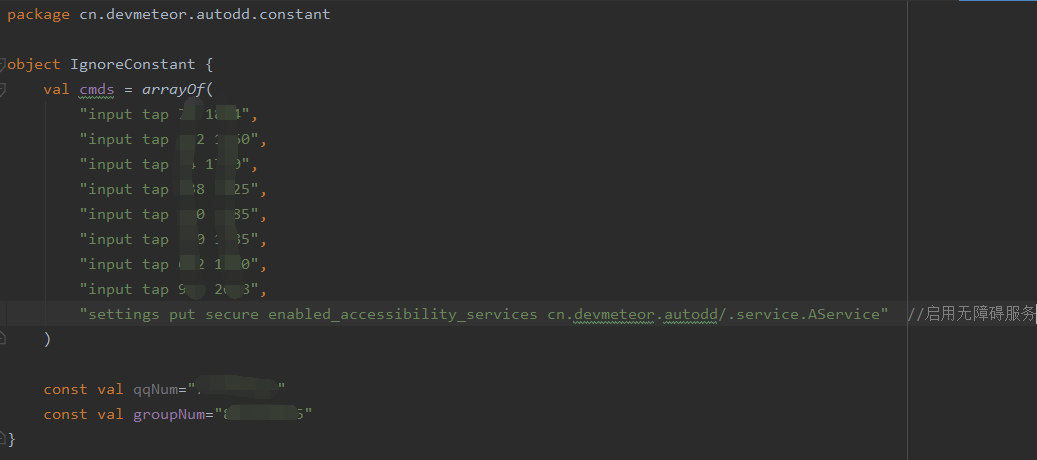
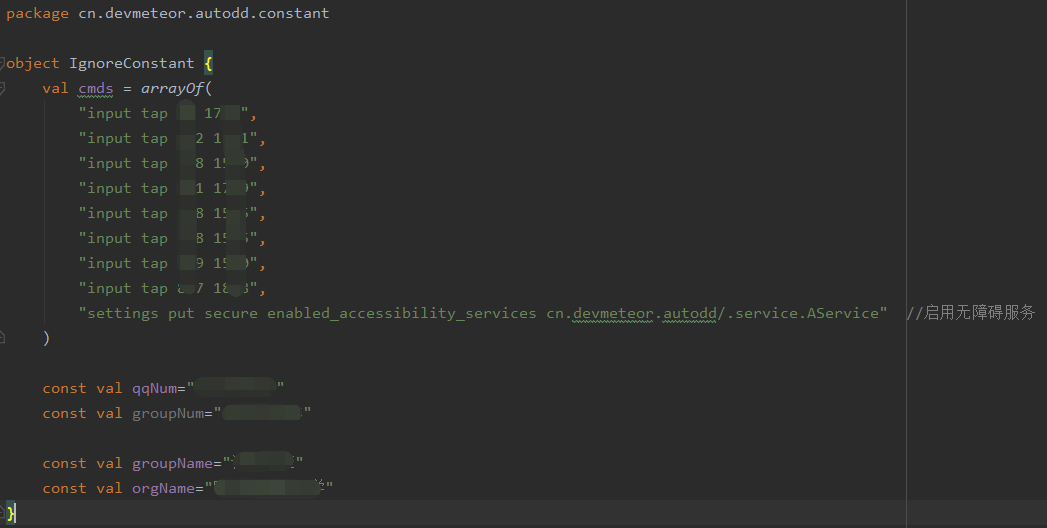
新增群内打卡

diff --git a/app/src/main/java/cn/devmeteor/autodd/service/AService.kt b/app/src/main/java/cn/devmeteor/autodd/service/AService.kt
@@ -1,12 +1,11 @@
 package cn.devmeteor.autodd.service
 
 import android.accessibilityservice.AccessibilityService
-import android.accessibilityservice.AccessibilityServiceInfo
 import android.content.ClipData
 import android.content.ClipboardManager
 import android.content.Context
 import android.content.Intent
-import android.graphics.Color
+import android.graphics.Rect
 import android.net.Uri
 import android.os.Build
 import android.util.Log
@@ -46,9 +45,6 @@ class AService : AccessibilityService() {
         timer = Timer()
         timerTask = object : TimerTask() {
             override fun run() {
-//                performGlobalAction(GLOBAL_ACTION_HOME)
-//                Thread.sleep(500)
-//                Util.execShell("am force-stop com.alibaba.android.rimet")
                 if (Build.VERSION.SDK_INT >= Build.VERSION_CODES.P) {
                     performGlobalAction(GLOBAL_ACTION_LOCK_SCREEN)
                 }
@@ -74,12 +70,12 @@ class AService : AccessibilityService() {
         if (pkgName == "com.alibaba.android.rimet") {
             if (!tabWork) {
                 try {
-                    Thread.sleep(6000)
-                    val infos = rootInActiveWindow.findAccessibilityNodeInfosByText("工作台")
-                    for (info in infos) {
-                        info?.performAction(AccessibilityNodeInfo.ACTION_CLICK)
-                        info.recycle()
-                    }
+                    Thread.sleep(10000)
+//                    val infos = rootInActiveWindow.findAccessibilityNodeInfosByText("工作台")
+                    val info =
+                        rootInActiveWindow.findAccessibilityNodeInfosByViewId("com.alibaba.android.rimet:id/home_app_recycler_view")[0]
+                    info.getChild(2).performAction(AccessibilityNodeInfo.ACTION_CLICK)
+                    info.recycle()
                     tabWork = true
                     Thread.sleep(5000)
                 } catch (e: Exception) {
@@ -97,7 +93,57 @@ class AService : AccessibilityService() {
             if (today && !submit)
                 click("提交")
             if (submit && !qqStart) {
+                performGlobalAction(GLOBAL_ACTION_BACK)
+                Thread.sleep(500)
+                performGlobalAction(GLOBAL_ACTION_BACK)
+                Thread.sleep(500)
+                performGlobalAction(GLOBAL_ACTION_BACK)
+                Thread.sleep(500)
                 clearTimer()
+                val info =
+                    rootInActiveWindow.findAccessibilityNodeInfosByViewId("com.alibaba.android.rimet:id/home_app_recycler_view")[0]
+                info.getChild(0).performAction(AccessibilityNodeInfo.ACTION_CLICK)
+                info.recycle()
+                Thread.sleep(500)
+                val group =
+                    rootInActiveWindow.findAccessibilityNodeInfosByText(IgnoreConstant.groupName)[0]
+                val rect = Rect()
+                group.getBoundsInScreen(rect)
+                group.recycle()
+                Util.execShell("input tap ${rect.centerX()} ${rect.centerY()}")
+                Thread.sleep(500)
+                val more =
+                    rootInActiveWindow.findAccessibilityNodeInfosByViewId("com.alibaba.android.rimet:id/add_app")[0]
+                more.performAction(AccessibilityNodeInfo.ACTION_CLICK)
+                more.recycle()
+                Thread.sleep(500)
+                val viewPager =
+                    rootInActiveWindow.findAccessibilityNodeInfosByViewId("com.alibaba.android.rimet:id/chat_app_pager")[0]
+                viewPager.getBoundsInScreen(rect)
+                viewPager.recycle()
+                Util.execShell("input swipe ${rect.centerX() + 500} ${rect.centerY()} ${rect.centerX() - 500} ${rect.centerY()}")
+                Thread.sleep(2000)
+                val item = rootInActiveWindow.findAccessibilityNodeInfosByText("签到")
+                for (view in item) {
+                    if (view.viewIdResourceName == "com.alibaba.android.rimet:id/chat_app_button_title") {
+                        view.parent.getBoundsInScreen(rect)
+                        Util.execShell("input tap ${rect.centerX()} ${rect.centerY()}")
+                        Thread.sleep(500)
+                    }
+                    view.recycle()
+                }
+                val org =
+                    rootInActiveWindow.findAccessibilityNodeInfosByText(IgnoreConstant.orgName)[0]
+                org.getBoundsInScreen(rect)
+                org.recycle()
+                Util.execShell("input tap ${rect.centerX()} ${rect.centerY()}")
+                Thread.sleep(2000)
+                rootInActiveWindow.getBoundsInScreen(rect)
+                Util.execShell("input tap ${rect.centerX()} ${rect.centerY()}")
+                Thread.sleep(1000)
+                rootInActiveWindow.getBoundsInScreen(rect)
+                Util.execShell("input tap ${rect.centerX()} ${rect.bottom - 200}")
+                Thread.sleep(500)
                 performGlobalAction(GLOBAL_ACTION_HOME)
                 Thread.sleep(500)
                 Util.execShell("am force-stop com.alibaba.android.rimet")
@@ -105,9 +151,9 @@ class AService : AccessibilityService() {
                 val intent = Intent(
                     Intent.ACTION_VIEW,
                     //打开好友聊天界面的协议，IgnoreConstant.qqNum是好友QQ号字符串
-//                    Uri.parse("mqqwpa://im/chat?chat_type=wpa&uin=${IgnoreConstant.qqNum}")
+                    Uri.parse("mqqwpa://im/chat?chat_type=wpa&uin=${IgnoreConstant.qqNum}")
                     //打开群聊天界面的协议，IgnoreConstant.groupNum是QQ群号
-                    Uri.parse("mqqwpa://im/chat?chat_type=group&uin=${IgnoreConstant.groupNum}")
+//                    Uri.parse("mqqwpa://im/chat?chat_type=group&uin=${IgnoreConstant.groupNum}")
                 )
                 intent.flags = Intent.FLAG_ACTIVITY_NEW_TASK
                 startActivity(intent)
@@ -123,14 +169,16 @@ class AService : AccessibilityService() {
                 clipboardManager.setPrimaryClip(clipData)
                 val input =
                     rootInActiveWindow.findAccessibilityNodeInfosByViewId("com.tencent.mobileqq:id/input")
-                if (input.size != 0) {
-                    input[0].performAction(AccessibilityNodeInfo.ACTION_CLICK)
-                    input[0].performAction(AccessibilityNodeInfo.ACTION_PASTE)
+                for (i in input) {
+                    i.performAction(AccessibilityNodeInfo.ACTION_FOCUS)
+                    i.performAction(AccessibilityNodeInfo.ACTION_PASTE)
+                    i.recycle()
                 }
                 val send =
                     rootInActiveWindow.findAccessibilityNodeInfosByViewId("com.tencent.mobileqq:id/fun_btn")
                 if (send.size != 0)
                     send[0].performAction(AccessibilityNodeInfo.ACTION_CLICK)
+                send[0]?.recycle()
                 Thread.sleep(1500)
                 performGlobalAction(GLOBAL_ACTION_BACK)
                 Thread.sleep(1000)

diff --git a/app/src/main/java/cn/devmeteor/autodd/service/AlarmService.kt b/app/src/main/java/cn/devmeteor/autodd/service/AlarmService.kt
@@ -22,45 +22,52 @@ import java.util.*
 
 class AlarmService : Service() {
 
-    private var time:Long?=null
-    private var alarmManager:AlarmManager?=null
-    private var pendingIntent:PendingIntent?=null
-    private var wakeLock:PowerManager.WakeLock?=null
+    private var time: Long? = null
+    private var alarmManager: AlarmManager? = null
+    private var pendingIntent: PendingIntent? = null
+    private var wakeLock: PowerManager.WakeLock? = null
 
     private val broadcastReceiver = object : BroadcastReceiver() {
         @SuppressLint("InvalidWakeLockTag")
         override fun onReceive(context: Context?, intent: Intent?) {
-            Log.i(AppConstant.APP_TAG, "Alarm")
-            LogUtils.i("Alarm Triggered")
+            if (intent?.action == AppConstant.ALARM_ACTION) {
+                Log.i(AppConstant.APP_TAG, "Alarm")
+                LogUtils.i("Alarm Triggered")
 //            val interval:Long=10*60*1000
-            val interval:Long=AlarmManager.INTERVAL_DAY
-            time=time!!.plus(interval)
-            if (Build.VERSION.SDK_INT >= Build.VERSION_CODES.M) {
-                alarmManager!!.setExactAndAllowWhileIdle(AlarmManager.RTC_WAKEUP,time!!,pendingIntent)
-            }else
-                alarmManager!!.setExact(AlarmManager.RTC_WAKEUP,time!!,pendingIntent)
-            val powerManager = getSystemService(Context.POWER_SERVICE) as PowerManager
-            val unlocked= if (Build.VERSION.SDK_INT >= Build.VERSION_CODES.KITKAT_WATCH) {
-                powerManager.isInteractive
-            } else {
-                powerManager.isScreenOn
+                val interval: Long = AlarmManager.INTERVAL_DAY
+                time = time!!.plus(interval)
+                if (Build.VERSION.SDK_INT >= Build.VERSION_CODES.M) {
+                    alarmManager!!.setExactAndAllowWhileIdle(
+                        AlarmManager.RTC_WAKEUP,
+                        time!!,
+                        pendingIntent
+                    )
+                } else
+                    alarmManager!!.setExact(AlarmManager.RTC_WAKEUP, time!!, pendingIntent)
+                val powerManager = getSystemService(Context.POWER_SERVICE) as PowerManager
+                val unlocked = if (Build.VERSION.SDK_INT >= Build.VERSION_CODES.KITKAT_WATCH) {
+                    powerManager.isInteractive
+                } else {
+                    powerManager.isScreenOn
+                }
+                if (unlocked)
+                    return
+                LogUtils.i("command executing...")
+                Util.execShell("am force-stop com.alibaba.android.rimet")
+                Util.execShell("input keyevent 26")
+                Thread.sleep(1500)
+                Util.execShell("input swipe 615 1938 615 500")  //使用shell命令执行锁屏上滑，显示输入密码页面
+                Thread.sleep(1500)
+                //IgnoreConstant.cmds包含点击解锁屏幕的shell命令序列和启用无障碍服务的命令"settings put secure enabled_accessibility_services cn.devmeteor.autodd/.service.AService"
+                for (cmd in IgnoreConstant.cmds) {
+                    Thread.sleep(300)
+                    Util.execShell(cmd)
+                }
+                Thread.sleep(2000)
+                val ddIntent = packageManager.getLaunchIntentForPackage("com.alibaba.android.rimet")
+                ddIntent!!.flags = Intent.FLAG_ACTIVITY_NEW_TASK
+                startActivity(ddIntent)
             }
-            if (unlocked)
-                return
-            LogUtils.i("command executing...")
-            Util.execShell("input keyevent 26")
-            Thread.sleep(1500)
-            Util.execShell("input swipe 615 1938 615 500")  //使用shell命令执行锁屏上滑，显示输入密码页面
-            Thread.sleep(1500)
-            //IgnoreConstant.cmds包含点击解锁屏幕的shell命令序列和启用无障碍服务的命令"settings put secure enabled_accessibility_services cn.devmeteor.autodd/.service.AService"
-            for(cmd in IgnoreConstant.cmds){
-                Thread.sleep(300)
-                Util.execShell(cmd)
-            }
-            Thread.sleep(2000)
-            val ddIntent = packageManager.getLaunchIntentForPackage("com.alibaba.android.rimet")
-            ddIntent!!.flags = Intent.FLAG_ACTIVITY_NEW_TASK
-            startActivity(ddIntent)
         }
     }
 
@@ -71,8 +78,8 @@ class AlarmService : Service() {
     @SuppressLint("InvalidWakeLockTag", "WakelockTimeout")
     override fun onCreate() {
         super.onCreate()
-        val powerManager=getSystemService(Context.POWER_SERVICE) as PowerManager
-        wakeLock=powerManager.newWakeLock(PowerManager.PARTIAL_WAKE_LOCK,"AutoDD.AlarmService")
+        val powerManager = getSystemService(Context.POWER_SERVICE) as PowerManager
+        wakeLock = powerManager.newWakeLock(PowerManager.PARTIAL_WAKE_LOCK, "AutoDD.AlarmService")
         wakeLock!!.acquire()
         LogUtils.i("AlarmServiceStarted")
         val intentFilter = IntentFilter(AppConstant.ALARM_ACTION)
@@ -84,13 +91,16 @@ class AlarmService : Service() {
 //        val str=SimpleDateFormat("yyyy-MM-dd 06:30:00", Locale.getDefault()).format(Date())
         val str=SimpleDateFormat("yyyy-MM-dd 05:00:00", Locale.getDefault()).format(Date())
         time=SimpleDateFormat("yyyy-MM-dd HH:mm:ss", Locale.getDefault()).parse(str)!!.time.plus(AlarmManager.INTERVAL_DAY)
-//        val str=SimpleDateFormat("yyyy-MM-dd HH:mm:00", Locale.getDefault()).format(Date())
-//        time=SimpleDateFormat("yyyy-MM-dd HH:mm:ss", Locale.getDefault()).parse(str)!!.time.plus(60*1000)
+//        val str = SimpleDateFormat("yyyy-MM-dd HH:mm:00", Locale.getDefault()).format(Date())
+//        time = SimpleDateFormat(
+//            "yyyy-MM-dd HH:mm:ss",
+//            Locale.getDefault()
+//        ).parse(str)!!.time.plus(60 * 1000)
 //        time=SimpleDateFormat("yyyy-MM-dd HH:mm:ss", Locale.getDefault()).parse(str)!!.time.plus(4*60*60*1000)
 //        time=SimpleDateFormat("yyyy-MM-dd HH:mm:ss", Locale.getDefault()).parse(str)!!.time.plus(AlarmManager.INTERVAL_HALF_DAY)
         if (Build.VERSION.SDK_INT >= Build.VERSION_CODES.M) {
             alarmManager!!.setExactAndAllowWhileIdle(AlarmManager.RTC_WAKEUP, time!!, pendingIntent)
-        }else
+        } else
             alarmManager!!.setExact(AlarmManager.RTC_WAKEUP, time!!, pendingIntent)
         println(SimpleDateFormat("yyyy-MM-dd HH:mm:ss", Locale.getDefault()).format(Date(time!!)))
     }
@@ -98,7 +108,7 @@ class AlarmService : Service() {
     override fun onDestroy() {
         super.onDestroy()
         unregisterReceiver(broadcastReceiver)
-        if (wakeLock!=null)
+        if (wakeLock != null)
             wakeLock!!.release()
     }
 

diff --git a/app/src/main/java/cn/devmeteor/autodd/App.kt b/app/src/main/java/cn/devmeteor/autodd/App.kt
@@ -14,7 +14,7 @@ class App:Application() {
         config.isLogSwitch = true
         config.setConsoleSwitch(true)
         config.isLog2FileSwitch = true
-        config.setDir(Environment.getExternalStorageDirectory())
+        config.setDir(externalCacheDir)
         config.filePrefix = "AutoDD"
     }
 }

diff --git a/README.md b/README.md
@@ -12,7 +12,7 @@
 
 ![](ignore.png)
 
-**cmds是解锁点击命令的数组，qqNum和groupNum分别是发送消息的好友QQ号和群号。**
+**cmds是解锁点击命令的数组，qqNum和groupNum分别是发送消息的好友QQ号和群号，groupName和orgName分别表示签到到群名和组织名。**
 
 其中shell命令部分实现模拟滑动锁屏页面和点击输入锁屏密码（需要root权限），无障碍（Accessibility）部分实现钉钉内提交表单和QQ内发送消息，定时部分（AlarmManager）实现在一定周期内定时执行任务。
 
